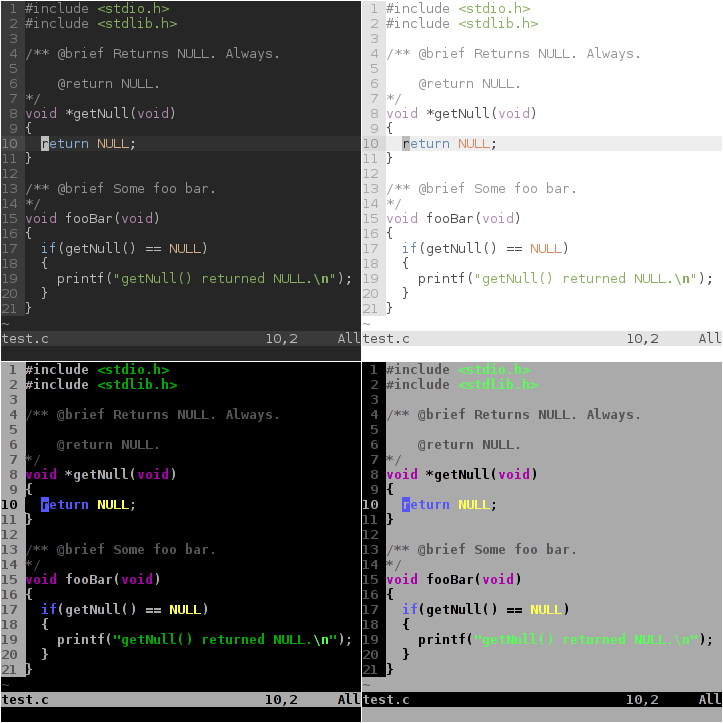
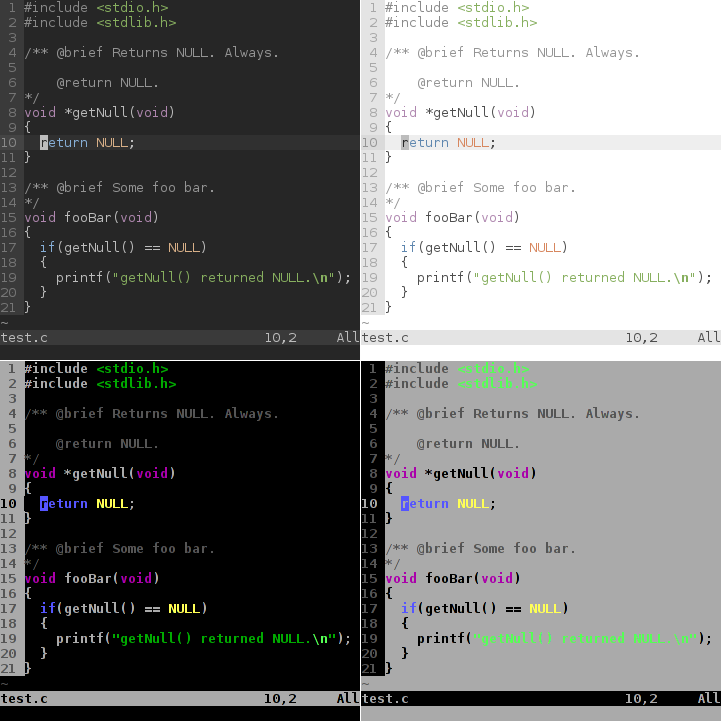
Removed small screenshots.

diff --git a/README.md b/README.md
@@ -7,10 +7,7 @@ light variant and aims to be complete and consistent. Not all plugins are
 supported yet, but it should work fine as long as they link to existing
 highlighting groups.
 
-![Dark Variant (Vim/GVim)](https://raw.github.com/AlxHnr/clear_colors/master/screenshots/dark.png)
-![Light Variant (Vim/GVim)](https://raw.github.com/AlxHnr/clear_colors/master/screenshots/light.png)
-![Dark Variant (8 Color Terminal)](https://raw.github.com/AlxHnr/clear_colors/master/screenshots/dark_8.png)
-![Light Variant (8 Color Terminal)](https://raw.github.com/AlxHnr/clear_colors/master/screenshots/light_8.png)
+![screenshot.png](https://raw.github.com/AlxHnr/clear_colors/master/screenshot.png)
 
 ## Installation
 
